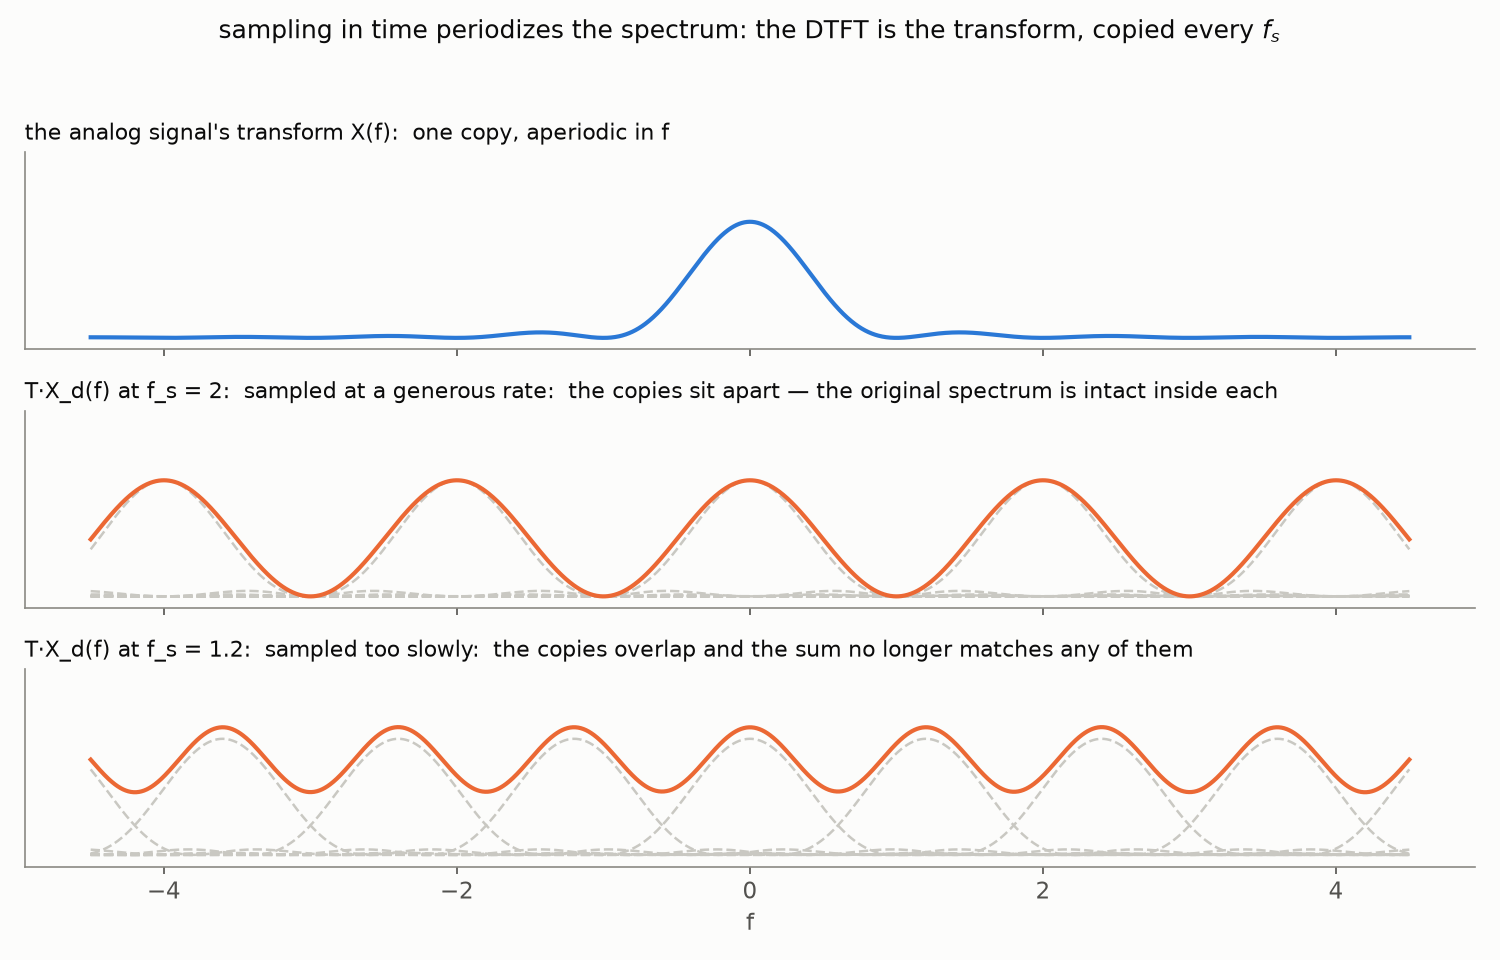
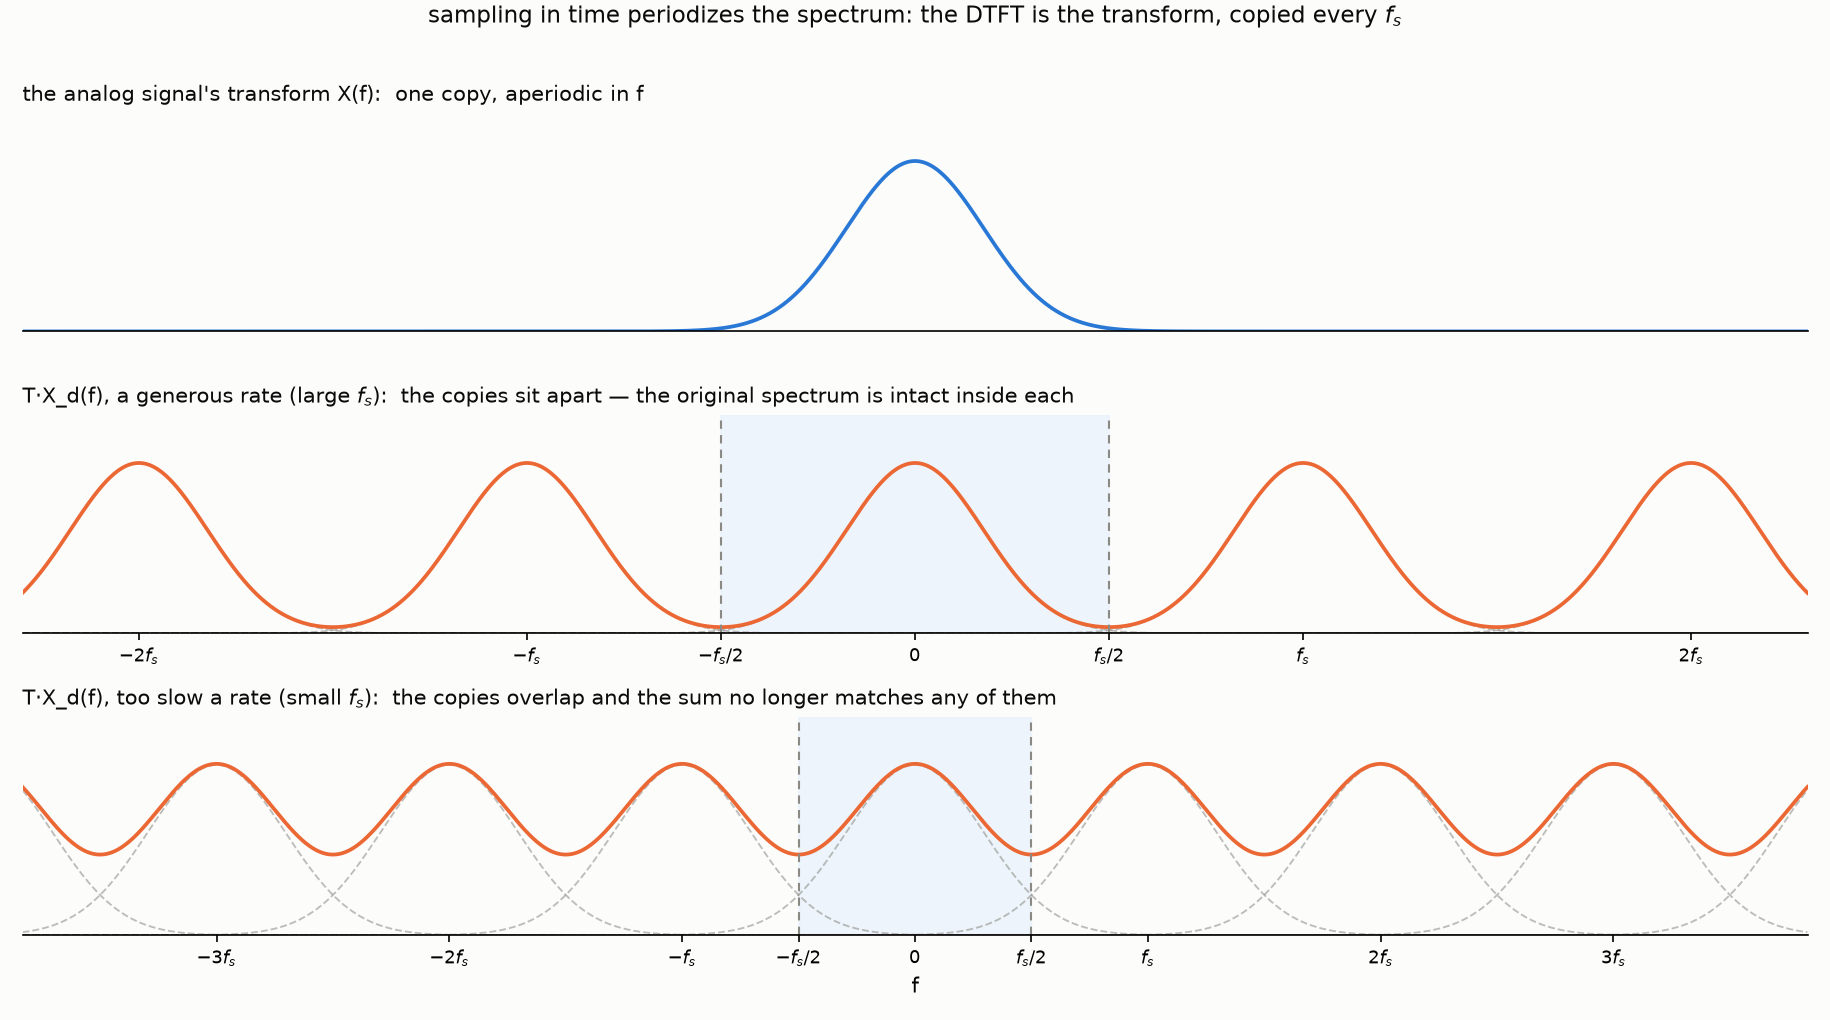
Four Shades: symbolic f_s axes on the copies figure; fix move order in bridge four
- dtft_copies.png: each periodized row now carries ticks in its own f_s
  units with the central period [-f_s/2, f_s/2] shaded, matching the
  text's cut-one-period-out language
- Bridge four: sample first, then periodize (as the recipe two lines
  above says); explanation sentences reordered to match

diff --git a/content/posts/four-shades-of-fourier/index.md b/content/posts/four-shades-of-fourier/index.md
@@ -376,12 +376,12 @@ dropping the physical scale leaves the **discrete Fourier transform**
 $X[k] = \sum_n x[n]\, e^{-2 \pi i k n / N}$ — discrete and periodic in both
 domains, the fully quantized corner of the table.
 
-Note that this one road makes *two* moves at once — it periodizes the
-signal, and it samples it — so both faces of the law fire together. The
-periodization made the spectrum discrete: a Fourier series hands over
-coefficients on a grid by its very construction. The sampling made the
-spectrum periodic: [one line,
+Note that this one road makes *two* moves at once — it samples the
+signal, and it periodizes it — so both faces of the law fire together.
+The sampling made the spectrum periodic: [one line,
 $c_{k+N} = c_k$](/posts/fourier-series-to-spectrogram-part-1/#only-n-distinct-coefficients).
+The periodization made the spectrum discrete: a Fourier series hands
+over coefficients on a grid by its very construction.
 This is where [Part 2 of the spectrogram series, *Reading the
 DFT*,](/posts/fourier-series-to-spectrogram-part-2/) first met both faces
 of the law — by direct computation, before any general principle was in
